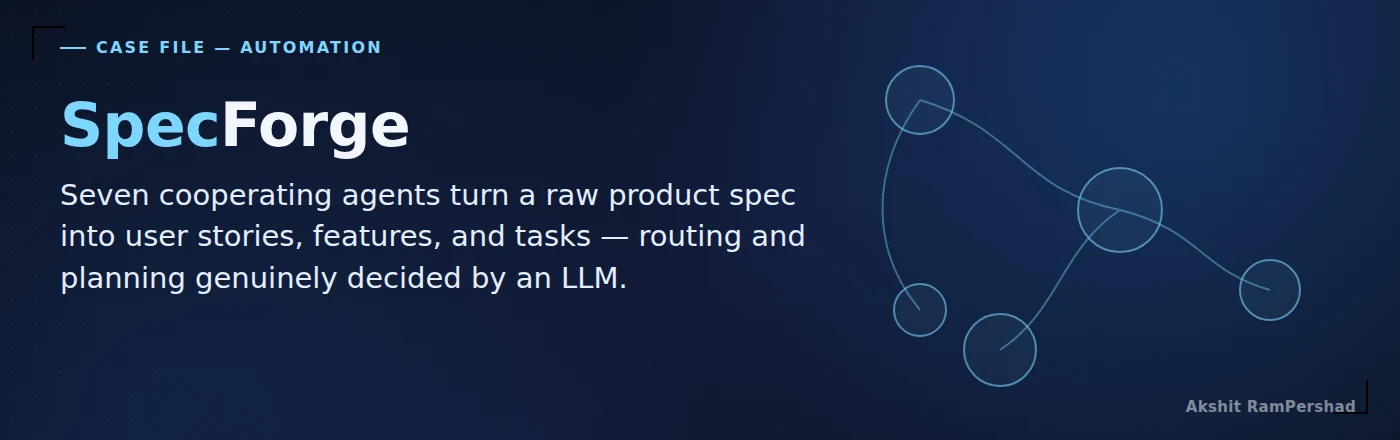
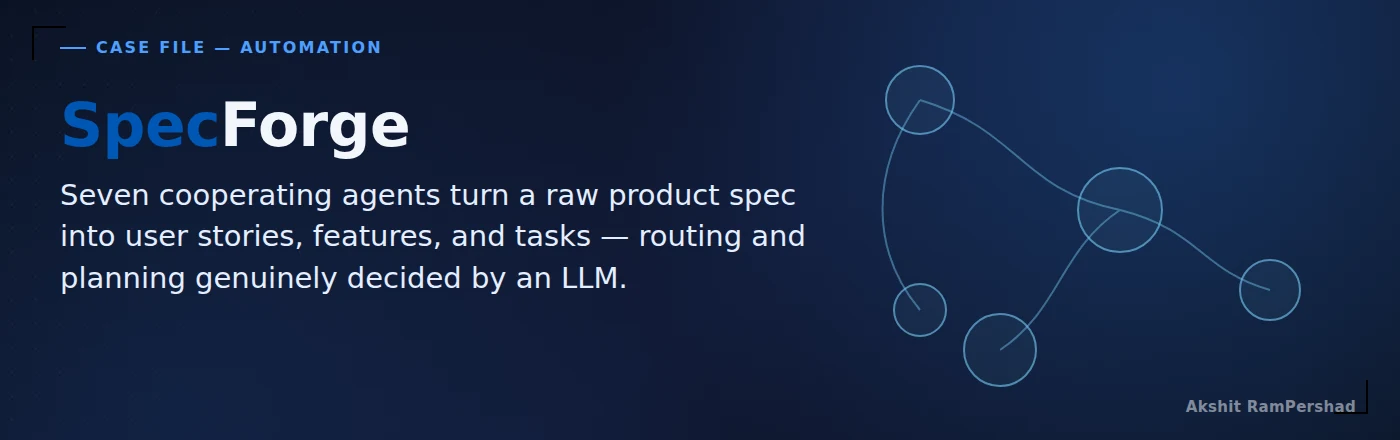
Default to light theme, use site's accent-dark blue on cover titles
- First-time visitors (no stored theme preference) now land on the
  light/white theme instead of dark; a returning visitor who
  explicitly chose dark keeps dark.
- Cover image kicker labels and title accents now use #0056b3
  (--accent-dark), matching "LLM & Agentic AI" and other section
  headers site-wide, instead of the lighter ad-hoc cyan.

Changed region(s): [[0.0307, 0.2364, 0.1536, 0.3545], [0.0614, 0.0886, 0.2764, 0.1182]]

diff --git a/index.html b/index.html
@@ -7,10 +7,12 @@
   <script>
     (function () {
       try {
-        if (localStorage.getItem('theme') === 'light') {
+        if (localStorage.getItem('theme') !== 'dark') {
           document.documentElement.setAttribute('data-theme', 'light');
         }
-      } catch (e) {}
+      } catch (e) {
+        document.documentElement.setAttribute('data-theme', 'light');
+      }
     })();
   </script>
   <link rel="stylesheet" href="https://cdnjs.cloudflare.com/ajax/libs/font-awesome/5.15.3/css/all.min.css">
